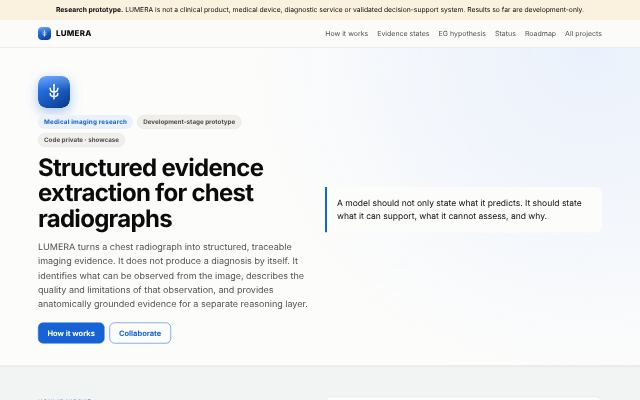
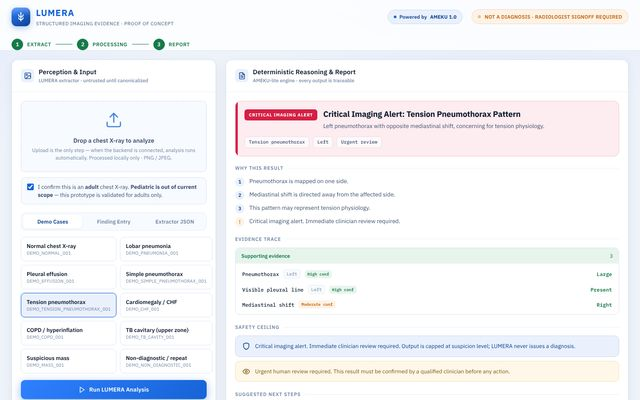
Add the LUMERA proof-of-concept screens
Fourteen screens of the earlier working proof of concept: the start
screen, all ten demo cases, structured finding entry and the extraction
JSON path, in a gallery with a lightbox and two featured cases. Old
wording (third-party extractor name, the old CXR / decision-support
subtitle, the local-backend panel) is neutralised in the captures at
the owner's request. The showcase card links to the new section.

Claude-Session: https://claude.ai/code/session_016qVKCg6jQ8hX6rV2dMeX21

diff --git a/projects/lumera/index.html b/projects/lumera/index.html
@@ -72,6 +72,8 @@
   .say .no { background: var(--bad-soft); border: 1px solid color-mix(in srgb, var(--bad) 30%, transparent); }
   .say b { display: block; font-size: 12px; text-transform: uppercase; letter-spacing: .06em; margin-bottom: 4px; }
   .roadmap8 { grid-template-columns: repeat(4, minmax(0, 1fr)); }
+  #poc .card figure { margin: 12px 0 0; }
+  #poc .card figcaption { margin-top: 8px; font-size: 13.5px; color: var(--text-secondary); }
   .road p { margin: 0; color: var(--text-secondary); font-size: 14px; }
   @media (max-width: 1000px) { .states, .cases { grid-template-columns: repeat(2, minmax(0, 1fr)); } .roadmap8 { grid-template-columns: repeat(2, minmax(0, 1fr)); } .eg { grid-template-columns: 1fr; } .eg-arrow { transform: rotate(90deg); justify-self: center; } }
   @media (max-width: 760px) { .evobj { grid-template-columns: 1fr; } }
@@ -86,6 +88,7 @@
     <a class="brand" href="#top"><i aria-hidden="true"></i>LUMERA</a>
     <nav aria-label="Sections">
       <a href="#how">How it works</a>
+      <a href="#poc">Proof of concept</a>
       <a href="#states">Evidence states</a>
       <a href="#eg">EG hypothesis</a>
       <a href="#status">Status</a>
@@ -103,7 +106,7 @@
       <div class="chips"><span class="chip brand">Medical imaging research</span><span class="chip">Development-stage prototype</span><span class="chip">Code private · showcase</span></div>
       <h1>Structured evidence extraction for chest radiographs</h1>
       <p class="lede">LUMERA turns a chest radiograph into structured, traceable imaging evidence. It does not produce a diagnosis by itself. It identifies what can be observed from the image, describes the quality and limitations of that observation, and provides anatomically grounded evidence for a separate reasoning layer.</p>
-      <div class="hero-actions"><a class="button" href="#how">How it works</a><a class="button ghost" href="#collaborate">Collaborate</a></div>
+      <div class="hero-actions"><a class="button" href="#poc">See it working</a><a class="button ghost" href="#how">How it works</a><a class="button ghost" href="#collaborate">Collaborate</a></div>
     </div>
     <blockquote class="quote">A model should not only state what it predicts. It should state what it can support, what it cannot assess, and why.</blockquote>
   </div>
@@ -127,6 +130,26 @@
       <li>Confidence, limitations and evidence status<span>Attached to each structure and measurement, not one global score</span></li>
       <li class="out">Structured evidence for downstream reasoning<span>Traceable to image structures and measurements</span></li>
     </ol>
+  </div>
+</section>
+
+
+<section id="poc">
+  <div class="wrap">
+    <p class="eyebrow">Proof of concept · how the flow works</p>
+    <h2>From structured evidence to a traceable report</h2>
+    <p class="section-copy">An earlier working proof of concept of the end-to-end flow: evidence in, a deterministic reasoning layer on top, and every output traced back to the observations behind it. The ten demo cases are structured example inputs, not patient images. The reasoning layer is shown to illustrate how LUMERA's evidence is consumed downstream: LUMERA itself does not diagnose, and the report is capped at suspicion-level wording with clinician signoff required. Click any screen to enlarge it.</p>
+    <div class="grid3" style="margin-bottom:22px">
+      <div class="who"><b>1 · Extract</b><p>Three ways in: an image, structured finding entry, or extraction JSON. Adult scope must be confirmed; pediatric images are out of scope.</p></div>
+      <div class="who"><b>2 · Map and check</b><p>Input is untrusted until canonicalised. An image-quality gate runs first, so a non-diagnostic image is reported as such instead of being interpreted.</p></div>
+      <div class="who"><b>3 · Traceable report</b><p>The matched pattern, why it matched, the evidence trace with side and confidence, safety checks, a safety ceiling, next steps, and a JSON export.</p></div>
+    </div>
+    <div class="two-col" style="margin-bottom:22px">
+      <div class="card"><h3>When the image cannot support a conclusion</h3><p class="muted small">The quality gate turns a poor image into "non-diagnostic", not into a guess.</p><figure><button type="button" class="shot-btn" data-shot="10"><img src="thumbs/11-case-non-diagnostic-repeat.jpg" alt="Non-diagnostic radiograph: The image-quality gate fires: no confident interpretation, repeat imaging may be needed" width="800" height="500" loading="lazy"></button><figcaption><b>Non-diagnostic radiograph.</b> The image-quality gate fires: no confident interpretation, repeat imaging may be needed</figcaption></figure></div>
+      <div class="card"><h3>When it matters most</h3><p class="muted small">A critical pattern raises an alert, still capped at suspicion level and routed to a clinician.</p><figure><button type="button" class="shot-btn" data-shot="5"><img src="thumbs/06-case-tension-pneumothorax.jpg" alt="Tension pneumothorax pattern: Critical imaging alert: pneumothorax plus opposite mediastinal shift; immediate clinician review" width="800" height="500" loading="lazy"></button><figcaption><b>Tension pneumothorax pattern.</b> Critical imaging alert: pneumothorax plus opposite mediastinal shift; immediate clinician review</figcaption></figure></div>
+    </div>
+    <h3>All screens</h3>
+    <div class="gallery"><figure><button type="button" class="shot-btn" data-shot="0"><img src="thumbs/01-start.jpg" alt="Start screen: Three ways in: an image, structured finding entry, or extraction JSON; plus the ten demo cases" width="800" height="500" loading="lazy"></button><figcaption><b>Start screen.</b> Three ways in: an image, structured finding entry, or extraction JSON; plus the ten demo cases</figcaption></figure><figure><button type="button" class="shot-btn" data-shot="1"><img src="thumbs/02-case-normal-chest-x-ray.jpg" alt="Normal pattern: No acute finding: every mapped observation is Absent with high confidence, and the image-quality signals are High" width="800" height="500" loading="lazy"></button><figcaption><b>Normal pattern.</b> No acute finding: every mapped observation is Absent with high confidence, and the image-quality signals are High</figcaption></figure><figure><button type="button" class="shot-btn" data-shot="2"><img src="thumbs/03-case-lobar-pneumonia.jpg" alt="Consolidation pattern: Suspicion-level finding, with the evidence that supports it" width="800" height="500" loading="lazy"></button><figcaption><b>Consolidation pattern.</b> Suspicion-level finding, with the evidence that supports it</figcaption></figure><figure><button type="button" class="shot-btn" data-shot="3"><img src="thumbs/04-case-pleural-effusion.jpg" alt="Pleural effusion pattern: Priority finding with supporting pleural signs" width="800" height="500" loading="lazy"></button><figcaption><b>Pleural effusion pattern.</b> Priority finding with supporting pleural signs</figcaption></figure><figure><button type="button" class="shot-btn" data-shot="4"><img src="thumbs/05-case-simple-pneumothorax.jpg" alt="Simple pneumothorax pattern: Priority finding; no mapped mediastinal shift" width="800" height="500" loading="lazy"></button><figcaption><b>Simple pneumothorax pattern.</b> Priority finding; no mapped mediastinal shift</figcaption></figure><figure><button type="button" class="shot-btn" data-shot="5"><img src="thumbs/06-case-tension-pneumothorax.jpg" alt="Tension pneumothorax pattern: Critical imaging alert: pneumothorax plus opposite mediastinal shift; immediate clinician review" width="800" height="500" loading="lazy"></button><figcaption><b>Tension pneumothorax pattern.</b> Critical imaging alert: pneumothorax plus opposite mediastinal shift; immediate clinician review</figcaption></figure><figure><button type="button" class="shot-btn" data-shot="6"><img src="thumbs/07-case-cardiomegaly-chf.jpg" alt="Cardiomegaly / CHF pattern: Priority finding from the cardiac silhouette and congestion features" width="800" height="500" loading="lazy"></button><figcaption><b>Cardiomegaly / CHF pattern.</b> Priority finding from the cardiac silhouette and congestion features</figcaption></figure><figure><button type="button" class="shot-btn" data-shot="7"><img src="thumbs/08-case-copd-hyperinflation.jpg" alt="Hyperinflation pattern: Suspicion-level finding: flattened diaphragm and diffuse hyperlucency" width="800" height="500" loading="lazy"></button><figcaption><b>Hyperinflation pattern.</b> Suspicion-level finding: flattened diaphragm and diffuse hyperlucency</figcaption></figure><figure><button type="button" class="shot-btn" data-shot="8"><img src="thumbs/09-case-tb-cavitary-upper-zone.jpg" alt="Upper-zone cavitary pattern: Suspicion-level finding; a consideration in the right clinical context" width="800" height="500" loading="lazy"></button><figcaption><b>Upper-zone cavitary pattern.</b> Suspicion-level finding; a consideration in the right clinical context</figcaption></figure><figure><button type="button" class="shot-btn" data-shot="9"><img src="thumbs/10-case-suspicious-mass.jpg" alt="Nodule / mass pattern: Priority finding with side and supporting evidence" width="800" height="500" loading="lazy"></button><figcaption><b>Nodule / mass pattern.</b> Priority finding with side and supporting evidence</figcaption></figure><figure><button type="button" class="shot-btn" data-shot="10"><img src="thumbs/11-case-non-diagnostic-repeat.jpg" alt="Non-diagnostic radiograph: The image-quality gate fires: no confident interpretation, repeat imaging may be needed" width="800" height="500" loading="lazy"></button><figcaption><b>Non-diagnostic radiograph.</b> The image-quality gate fires: no confident interpretation, repeat imaging may be needed</figcaption></figure><figure><button type="button" class="shot-btn" data-shot="11"><img src="thumbs/12-finding-entry.jpg" alt="Structured finding entry: Every input is a typed field: image quality, lungs, pleura, mediastinum, cardiac, hyperinflation, cavity / mass, each with its confidence" width="800" height="500" loading="lazy"></button><figcaption><b>Structured finding entry.</b> Every input is a typed field: image quality, lungs, pleura, mediastinum, cardiac, hyperinflation, cavity / mass, each with its confidence</figcaption></figure><figure><button type="button" class="shot-btn" data-shot="12"><img src="thumbs/13-extractor-json.jpg" alt="Extraction JSON: A 12-parameter extraction is mapped and checked before any result is shown; each value carries confidence and evidence text" width="800" height="500" loading="lazy"></button><figcaption><b>Extraction JSON.</b> A 12-parameter extraction is mapped and checked before any result is shown; each value carries confidence and evidence text</figcaption></figure><figure><button type="button" class="shot-btn" data-shot="13"><img src="thumbs/14-extractor-json-report.jpg" alt="Report from the extraction: The example extraction produces a traceable report" width="800" height="500" loading="lazy"></button><figcaption><b>Report from the extraction.</b> The example extraction produces a traceable report</figcaption></figure></div>
   </div>
 </section>
 
@@ -314,10 +337,30 @@
 
 <footer class="footer">
   <div class="wrap">
-    <p><strong>LUMERA</strong> · © 2026 Koushik Das · Research software; code private. This page describes the approach and status, not code or results.</p>
+    <p><strong>LUMERA</strong> · © 2026 Koushik Das · Research software; code private. This page shows the approach, status and screens of an earlier proof of concept; no code.</p>
     <p>Not a medical device. Not for diagnosis or clinical decisions.</p>
   </div>
 </footer>
+
+<div class="lightbox" id="lightbox" role="dialog" aria-modal="true" aria-label="Screenshot">
+  <button type="button" class="close" aria-label="Close">×</button>
+  <button type="button" class="prev" aria-label="Previous screenshot">‹</button>
+  <figure><img alt=""><figcaption></figcaption></figure>
+  <button type="button" class="next" aria-label="Next screenshot">›</button>
+</div>
+<script>
+  const SHOTS = [["01-start", "Start screen", "Three ways in: an image, structured finding entry, or extraction JSON; plus the ten demo cases"], ["02-case-normal-chest-x-ray", "Normal pattern", "No acute finding: every mapped observation is Absent with high confidence, and the image-quality signals are High"], ["03-case-lobar-pneumonia", "Consolidation pattern", "Suspicion-level finding, with the evidence that supports it"], ["04-case-pleural-effusion", "Pleural effusion pattern", "Priority finding with supporting pleural signs"], ["05-case-simple-pneumothorax", "Simple pneumothorax pattern", "Priority finding; no mapped mediastinal shift"], ["06-case-tension-pneumothorax", "Tension pneumothorax pattern", "Critical imaging alert: pneumothorax plus opposite mediastinal shift; immediate clinician review"], ["07-case-cardiomegaly-chf", "Cardiomegaly / CHF pattern", "Priority finding from the cardiac silhouette and congestion features"], ["08-case-copd-hyperinflation", "Hyperinflation pattern", "Suspicion-level finding: flattened diaphragm and diffuse hyperlucency"], ["09-case-tb-cavitary-upper-zone", "Upper-zone cavitary pattern", "Suspicion-level finding; a consideration in the right clinical context"], ["10-case-suspicious-mass", "Nodule / mass pattern", "Priority finding with side and supporting evidence"], ["11-case-non-diagnostic-repeat", "Non-diagnostic radiograph", "The image-quality gate fires: no confident interpretation, repeat imaging may be needed"], ["12-finding-entry", "Structured finding entry", "Every input is a typed field: image quality, lungs, pleura, mediastinum, cardiac, hyperinflation, cavity / mass, each with its confidence"], ["13-extractor-json", "Extraction JSON", "A 12-parameter extraction is mapped and checked before any result is shown; each value carries confidence and evidence text"], ["14-extractor-json-report", "Report from the extraction", "The example extraction produces a traceable report"]];
+  const box = document.getElementById("lightbox"), boxImg = box.querySelector("img"), boxCap = box.querySelector("figcaption");
+  let cur = 0, opener = null;
+  const show = (i) => { cur = (i + SHOTS.length) % SHOTS.length; const [f, t, c] = SHOTS[cur]; boxImg.src = "shots/" + f + ".png"; boxImg.alt = t + ": " + c; boxCap.textContent = (cur + 1) + " / " + SHOTS.length + " · " + t + " · " + c; };
+  const close = () => { box.classList.remove("on"); boxImg.removeAttribute("src"); opener?.focus(); };
+  document.addEventListener("click", (e) => { const b = e.target.closest("[data-shot]"); if (b) { opener = b; show(Number(b.dataset.shot)); box.classList.add("on"); box.querySelector(".close").focus(); } });
+  box.querySelector(".close").addEventListener("click", close);
+  box.querySelector(".prev").addEventListener("click", () => show(cur - 1));
+  box.querySelector(".next").addEventListener("click", () => show(cur + 1));
+  box.addEventListener("click", (e) => { if (e.target === box) close(); });
+  document.addEventListener("keydown", (e) => { if (!box.classList.contains("on")) return; if (e.key === "Escape") close(); else if (e.key === "ArrowRight") show(cur + 1); else if (e.key === "ArrowLeft") show(cur - 1); });
+</script>
 <script>
   const STATES = {
     absent: ["Absent", "s-absent", "Negative evidence: the image permitted a valid look, and the evidence supports a negative observation. Of the five states, only this one is evidence against a finding."],

diff --git a/index.html b/index.html
@@ -123,12 +123,12 @@
           <h3>LUMERA</h3>
           <p class="pitch">Structured evidence extraction for chest radiographs: what can be observed, how reliable it is, and what cannot be assessed, for a separate reasoning layer.</p>
           <ul class="try">
-            <li>The pipeline from image to reliability-aware evidence</li>
+            <li>14 screens of a working proof of concept, from evidence to a traceable report</li>
             <li>Five evidence states, from Absent to Mask failed, that are never interchangeable</li>
             <li>The Evidence-Guided (EG) research hypothesis, stated as unproven</li>
           </ul>
           <p class="runs"><span class="pill">Showcase · research prototype, code private</span></p>
-          <div class="actions"><a class="button" href="projects/lumera/">Open showcase</a><a class="button ghost" href="projects/lumera/#states">Evidence states</a></div>
+          <div class="actions"><a class="button" href="projects/lumera/">Open showcase</a><a class="button ghost" href="projects/lumera/#poc">See it working</a></div>
         </div>
       </article>
 
